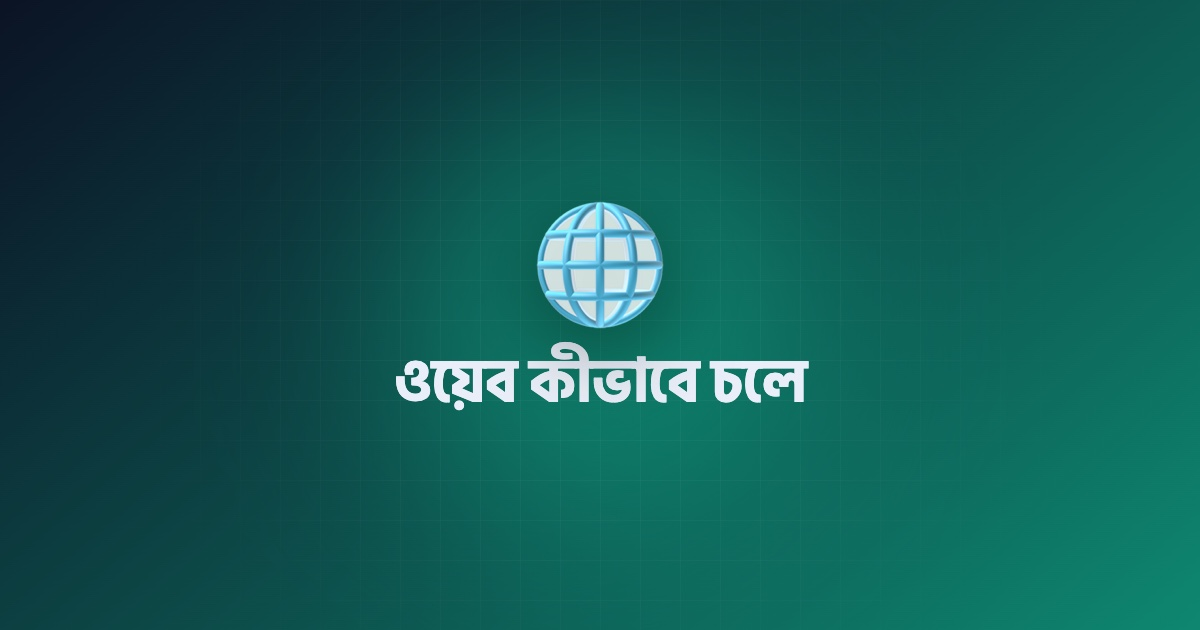
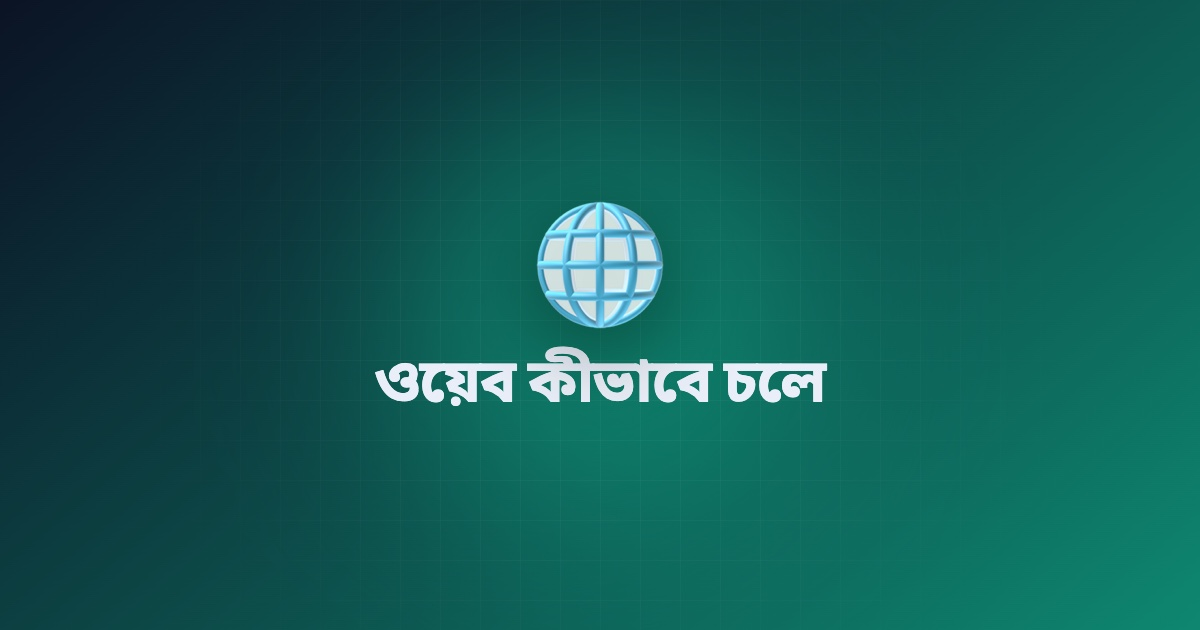
style: switch Bengali font from Hind Siliguri to Noto Sans Bengali

Changed region(s): [[0.3083, 0.5429, 0.7092, 0.6635]]

diff --git a/tools/og.html b/tools/og.html
@@ -2,14 +2,14 @@
 <html lang="bn">
 <head>
 <meta charset="utf-8">
-<link href="https://fonts.googleapis.com/css2?family=Hind+Siliguri:wght@500;700&family=Inter:wght@600;800&display=swap" rel="stylesheet">
+<link href="https://fonts.googleapis.com/css2?family=Noto+Sans+Bengali:wght@500;700&family=Inter:wght@600;800&display=swap" rel="stylesheet">
 <style>
     *{margin:0;box-sizing:border-box}
     html,body{width:1200px;height:630px;overflow:hidden}
     body{
         position:relative;display:grid;place-items:center;isolation:isolate;
         background:linear-gradient(140deg,#0B1324 0%,var(--c) 140%);
-        font-family:'Inter','Hind Siliguri',sans-serif;color:#E9EEF8;
+        font-family:'Inter','Noto Sans Bengali',sans-serif;color:#E9EEF8;
     }
     body::before{
         content:"";position:absolute;inset:0;z-index:-1;
@@ -23,7 +23,7 @@
     .icon{font-size:130px;line-height:1;filter:drop-shadow(0 18px 40px rgba(0,0,0,.45))}
     .text{font-size:76px;line-height:1.15;font-weight:800;letter-spacing:-.01em}
     .text.long{font-size:60px}
-    .sub{font-family:'Hind Siliguri','Inter',sans-serif;font-size:32px;line-height:1.3;font-weight:500;color:rgba(233,238,248,.82)}
+    .sub{font-family:'Noto Sans Bengali','Inter',sans-serif;font-size:32px;line-height:1.3;font-weight:500;color:rgba(233,238,248,.82)}
 </style>
 </head>
 <body>

diff --git a/global/theme.css b/global/theme.css
@@ -5,7 +5,7 @@
   --text:#E9EEF8; --muted:#97A3BD; --dim:#66728C;
   --mint:#1ED6A8; --mint-2:#5EEAD4; --sun:#FFB020; --indigo:#7C83FF; --coral:#FF7A5C;
   --navy:#14213D;
-  --sans:'Inter','Hind Siliguri','Noto Sans Bengali',system-ui,-apple-system,'Segoe UI',sans-serif;
+  --sans:'Inter','Noto Sans Bengali',system-ui,-apple-system,'Segoe UI',sans-serif;
   --mono:'JetBrains Mono',ui-monospace,SFMono-Regular,Menlo,Consolas,monospace;
   --wrap:1180px;
   --radius:20px;
